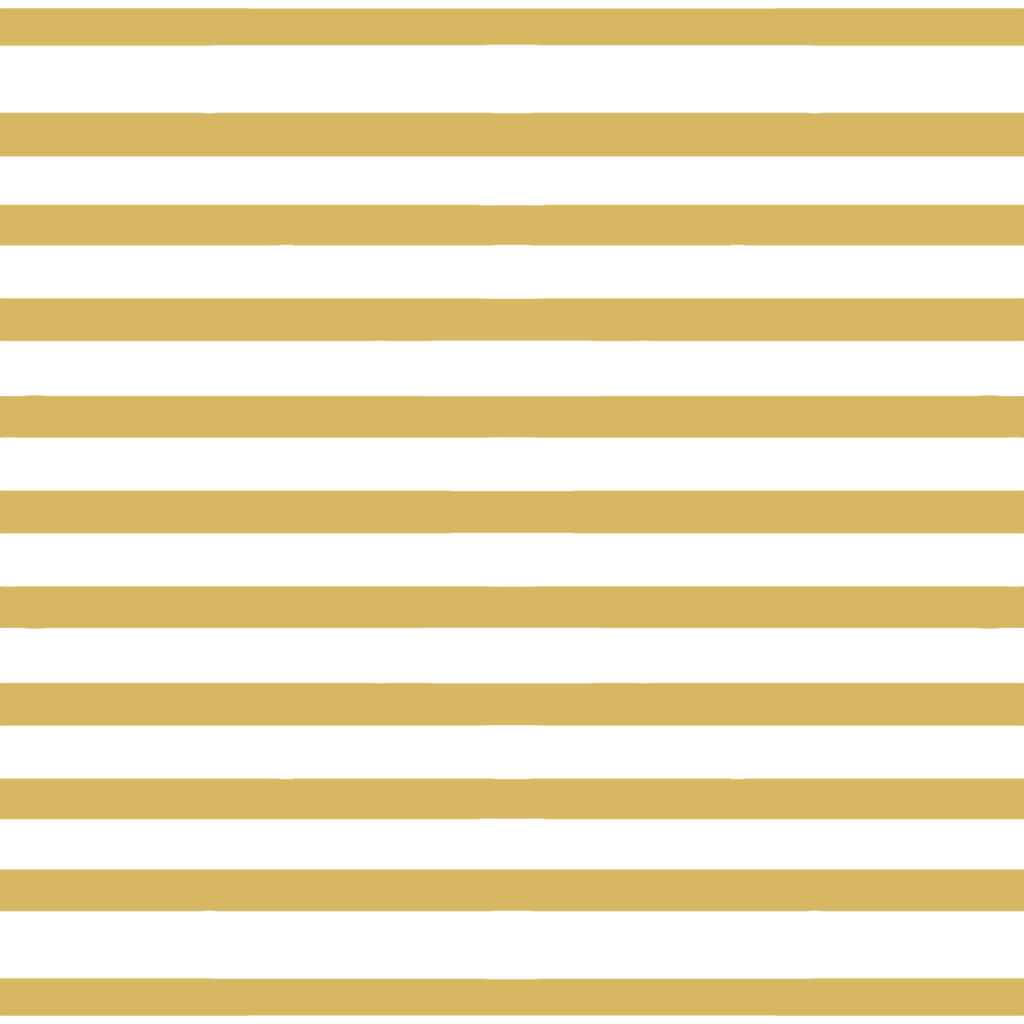
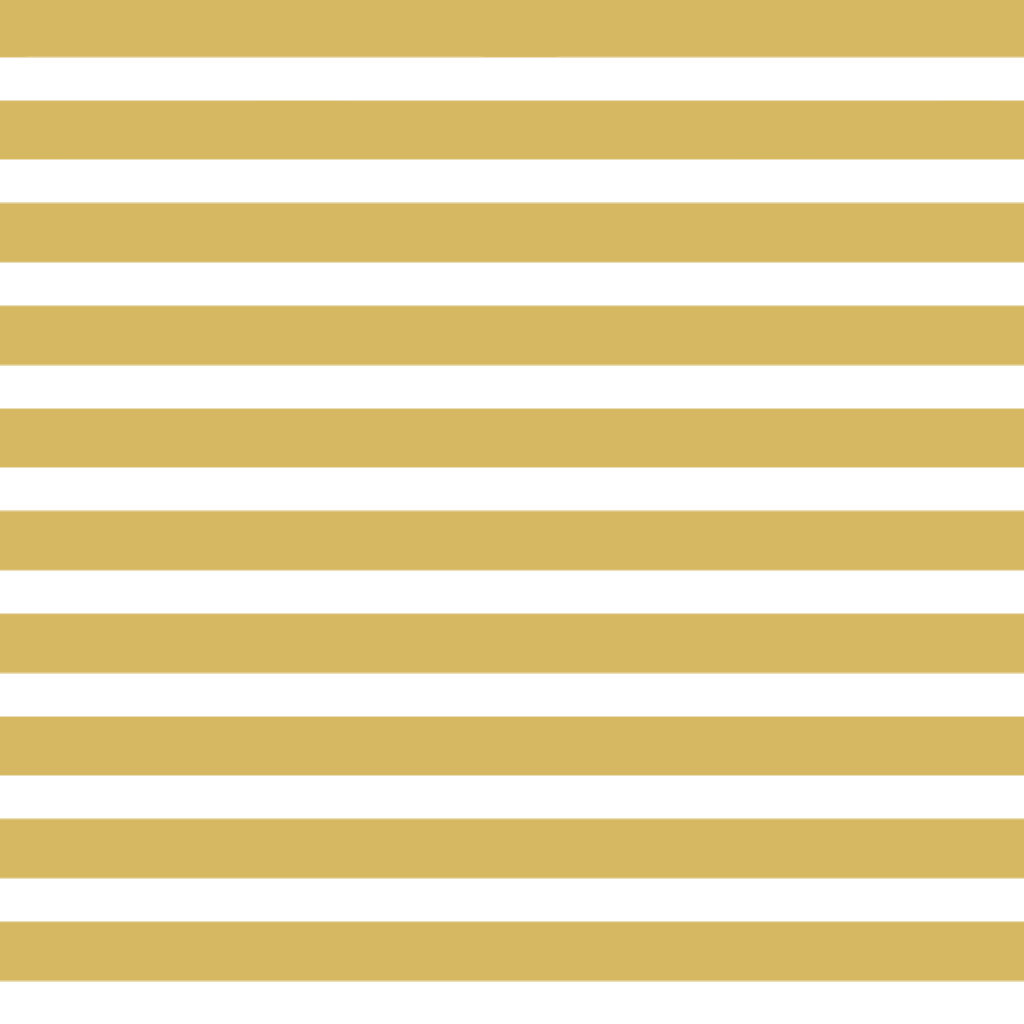
ちっちゃすぎ

diff --git a/Project/Application/GameObject/Character/EnemyManager/Shield/EnemyShield.cpp b/Project/Application/GameObject/Character/EnemyManager/Shield/EnemyShield.cpp
@@ -17,6 +17,9 @@ void EnemyShield::Init()
 	color_ = Vector4::one;
 	color_.w = 0.5f;
 
+	// uvTransformの初期設定
+	uvTrans_.Init();
+
 	// BodyTransfromの初期化
 	trans_.Init();
 
@@ -33,6 +36,12 @@ void EnemyShield::Init()
 /// </summary>
 void EnemyShield::Update()
 {
+	// uvTransformの更新
+	uvTrans_.UpdateMatrix();
+	// 少しずつ値を上げる
+	uvTrans_.srt.translate.y += 0.005f;
+
+	// コライダー更新
 	sphere_->data_.center = trans_.GetWorldPos();
 
 #ifdef _DEBUG
@@ -49,6 +58,7 @@ void EnemyShield::Draw3D()
 {
 	// BodyModelの描画
 	model_->SetMaterialColor(color_);
+	model_->SetMaterialUVMat(uvTrans_.matWorld);
 	model_->Draw(trans_);
 }
 void EnemyShield::Draw2DFront()
@@ -78,6 +88,9 @@ void EnemyShield::DrawImGui()
 		ImGui::Text("");
 
 		ImGui::ColorEdit4("Color", &color_.x);
+		ImGui::Text("");
+
+		ImGui::DragFloat2("UVTrans_Translate", &uvTrans_.srt.translate.x, 0.01f);
 		ImGui::Text("");
 
 		ImGui::TreePop();

diff --git a/Project/Application/GameObject/Character/EnemyManager/Shield/EnemyShield.h b/Project/Application/GameObject/Character/EnemyManager/Shield/EnemyShield.h
@@ -55,6 +55,9 @@ private:
 	// カラー　
 	Vector4 color_{};
 
+	// uvTransform
+	Transform uvTrans_{};
+
 	// トランスフォーム
 	Transform trans_{};
 
